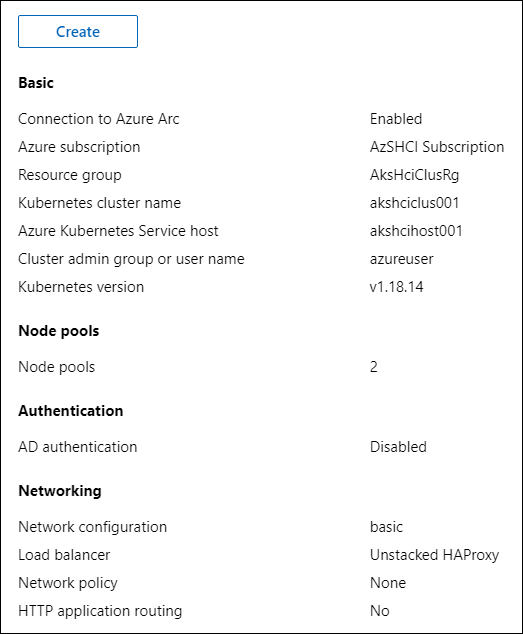
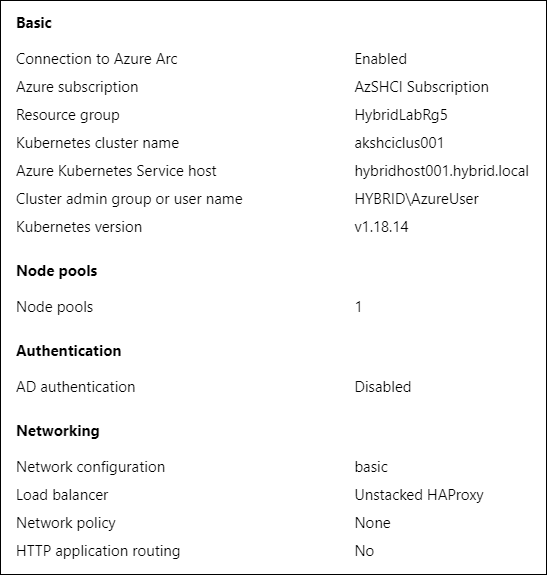
Updated images and steps

diff --git a/steps/4_DeployAKSHCI.md b/steps/4_DeployAKSHCI.md
@@ -203,7 +203,7 @@ Whichever option you chose, you will now be at the start of the **Create kuberne
 
 3. Still on the **Basics** page, under **Cluster details**, provide a **Kubernetes cluster name**, **Azure Kubernetes Service host**, which should be **HybridHost001.hybrid.local**, enter your host credentials, then select the **Kubernetes version** from the drop down.
 
-![AKS cluster details in Windows Admin Center](/media/aks_basics_cluster_details.png "AKS cluster details in Windows Admin Center")
+![AKS cluster details in Windows Admin Center](/media/aks_basics_cluster_details_single.png "AKS cluster details in Windows Admin Center")
 
 4. Under **Primary node pool**, accept the defaults, and then click **Next: Node pools**
 
@@ -213,11 +213,6 @@ Whichever option you chose, you will now be at the start of the **Create kuberne
 6. In the **Add a node pool** blade, enter the following, then click **Add**
    1. **Node pool name**: LinuxPool1
    2. **OS type**: Linux
-   3. **Node size**: Standard_K8S3_v1 (6 GB Memory, 4 CPU)
-   4. **Node count**: 1
-7. Repeat step 6, to add a **Windows node** and the following info, then click **Add**
-   1. **Node pool name**: WindowsPool1
-   2. **OS type**: Windows
    3. **Node size**: Standard_K8S3_v1 (6 GB Memory, 4 CPU)
    4. **Node count**: 1
 
